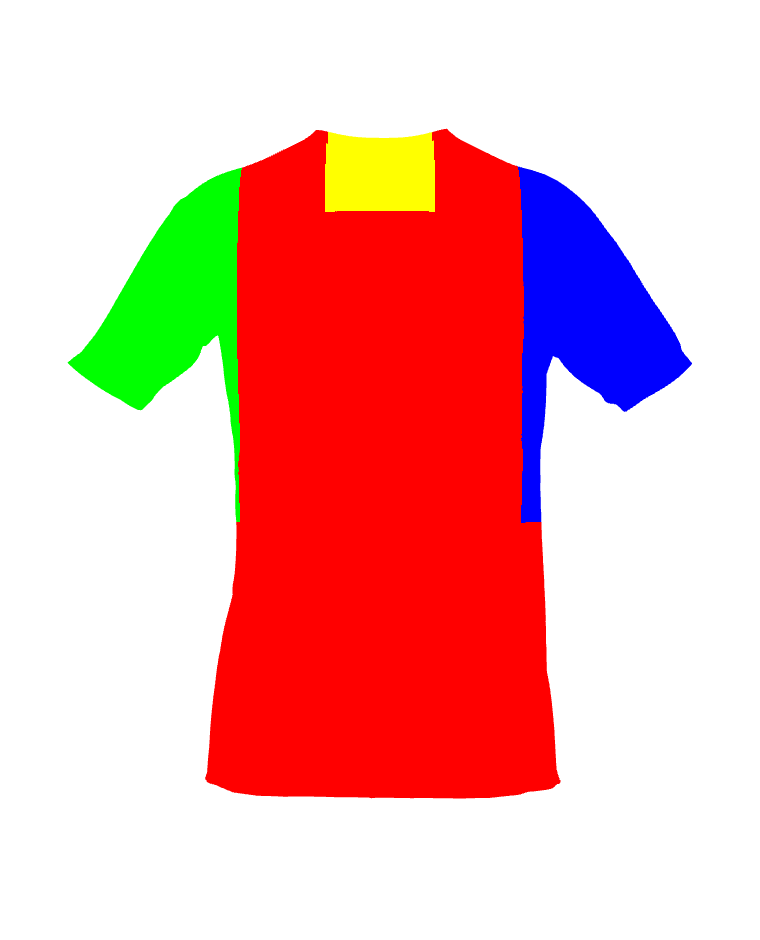
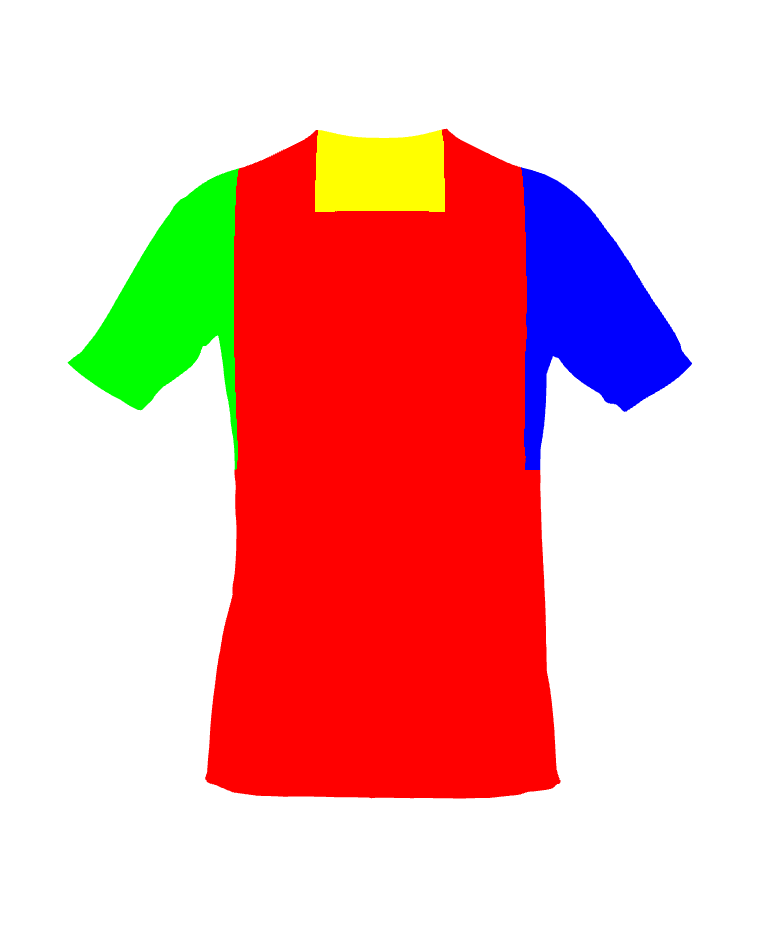
Uniform Builder: cleaner photoreal zones (no speckles / sleeve bleed)
- computeZoneAlpha now assigns every garment pixel to its NEAREST zone color
  (winner-take-all) instead of a color-distance threshold, so anti-aliased
  zone/silhouette edges no longer leave unassigned pixels (the seam speckles).
- Regenerate the built-in jersey's zone mask with sleeves confined to the
  upper arm region, so the sleeve color no longer bleeds down the torso sides.

Claude-Session: https://claude.ai/code/session_01NENLx8YGFaJUvRRHxNjF9m

diff --git a/src/uniform/raster.js b/src/uniform/raster.js
@@ -47,30 +47,28 @@ function newCanvas(w, h) {
   const c = document.createElement('canvas'); c.width = w; c.height = h; return c;
 }
 
-// Build a per-zone alpha mask (white where the ID map matches the zone's color)
-// plus keep the raw mask ImageData for click hit-testing. tol is squared-RGB.
-function computeZoneAlpha(maskImg, zones, w, h, tol = 60) {
+// Build a per-zone alpha mask from the ID map. Every garment pixel (mask alpha
+// present) is assigned to its NEAREST zone color — winner-take-all — so there are
+// no unassigned pixels at anti-aliased zone/silhouette edges (which used to show
+// as speckles/gaps). Also returns the raw mask ImageData for click hit-testing.
+function computeZoneAlpha(maskImg, zones, w, h) {
   const mc = newCanvas(w, h);
   const mx = mc.getContext('2d', { willReadFrequently: true });
   mx.drawImage(maskImg, 0, 0, w, h);
   const md = mx.getImageData(0, 0, w, h);
   const data = md.data;
-  const zoneAlpha = {};
-  const t2 = tol * tol;
-  for (const z of zones) {
-    const { r, g, b } = ds.hexToRgb(z.maskColor);
-    const a = newCanvas(w, h);
-    const ax = a.getContext('2d');
-    const id = ax.createImageData(w, h);
-    const od = id.data;
-    let hits = 0;
-    for (let i = 0; i < data.length; i += 4) {
-      const dr = data[i] - r, dg = data[i + 1] - g, db = data[i + 2] - b;
-      if (dr * dr + dg * dg + db * db < t2) { od[i] = od[i + 1] = od[i + 2] = od[i + 3] = 255; hits++; }
-    }
-    ax.putImageData(id, 0, 0);
-    if (hits) zoneAlpha[z.id] = a; // skip zones absent from this garment's mask
+  const zc = zones.map((z) => ({ id: z.id, ...ds.hexToRgb(z.maskColor) }));
+  const bufs = {};
+  for (const z of zones) { const a = newCanvas(w, h); const ctx = a.getContext('2d'); bufs[z.id] = { canvas: a, ctx, img: ctx.createImageData(w, h), any: false }; }
+  for (let i = 0; i < data.length; i += 4) {
+    if (data[i + 3] < 128) continue; // transparent background -> no zone
+    const r = data[i], g = data[i + 1], b = data[i + 2];
+    let best = null, bestD = Infinity;
+    for (const z of zc) { const dr = r - z.r, dg = g - z.g, db = b - z.b; const dd = dr * dr + dg * dg + db * db; if (dd < bestD) { bestD = dd; best = z.id; } }
+    if (best != null) { const buf = bufs[best]; const od = buf.img.data; od[i] = od[i + 1] = od[i + 2] = od[i + 3] = 255; buf.any = true; }
   }
+  const zoneAlpha = {};
+  for (const z of zones) { const buf = bufs[z.id]; if (buf.any) { buf.ctx.putImageData(buf.img, 0, 0); zoneAlpha[z.id] = buf.canvas; } }
   return { zoneAlpha, maskData: md };
 }
 